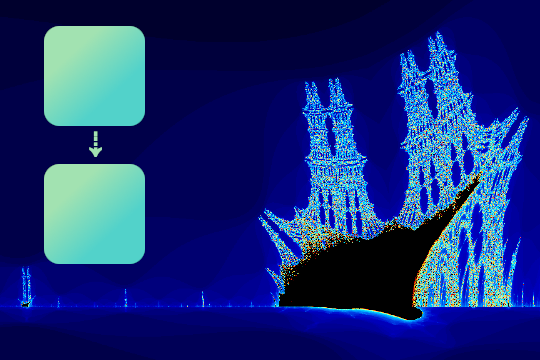
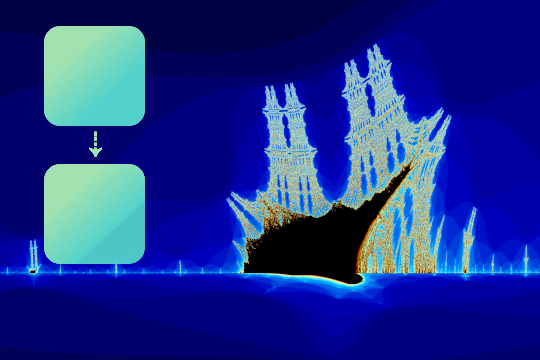
Replaced half-resolution with Resolution Scale to allow high-DPI support

diff --git a/src/main/java/me/fishydarwin/fractalexplorer/view/window/BoundTimeSettingsWindow.java b/src/main/java/me/fishydarwin/fractalexplorer/view/window/BoundTimeSettingsWindow.java
@@ -1,6 +1,7 @@
 package me.fishydarwin.fractalexplorer.view.window;
 
 import me.fishydarwin.fractalexplorer.Main;
+import me.fishydarwin.fractalexplorer.view.component.JImagePanel;
 
 import javax.swing.*;
 import java.awt.*;
@@ -28,7 +29,6 @@ public class BoundTimeSettingsWindow extends AppWindow {
     }
 
     private boolean useLowDetailChecked = false;
-    private boolean useCheckerboardChecked = false;
 
     @Override
     public void initComponents() {
@@ -45,14 +45,17 @@ public class BoundTimeSettingsWindow extends AppWindow {
         settingsPanelConstraints.gridy = 0;
         settingsPanelConstraints.gridheight = 1;
         settingsPanelConstraints.gridwidth = 3;
+        settingsPanelConstraints.ipady = 10;
         settingsPanel.add(redSliderLabel, settingsPanelConstraints);
         JSlider redSlider = new JSlider(0, 100,
                 (int) ((caller.getFractalRenderer().getPaletteR() - 1) * 100));
+        redSliderLabel.setHorizontalAlignment(SwingConstants.CENTER);
         redSlider.setPreferredSize(new Dimension(250, 16));
         settingsPanelConstraints.gridy = 1;
         settingsPanel.add(redSlider, settingsPanelConstraints);
 
         JLabel greenSliderLabel = new JLabel("Green Color Offset");
+        greenSliderLabel.setHorizontalAlignment(SwingConstants.CENTER);
         greenSliderLabel.setPreferredSize(new Dimension(250, 16));
         settingsPanelConstraints.gridy = 2;
         settingsPanel.add(greenSliderLabel, settingsPanelConstraints);
@@ -63,6 +66,7 @@ public class BoundTimeSettingsWindow extends AppWindow {
         settingsPanel.add(greenSlider, settingsPanelConstraints);
 
         JLabel blueSliderLabel = new JLabel("Blue Color Offset");
+        blueSliderLabel.setHorizontalAlignment(SwingConstants.CENTER);
         blueSliderLabel.setPreferredSize(new Dimension(250, 16));
         settingsPanelConstraints.gridy = 4;
         settingsPanel.add(blueSliderLabel, settingsPanelConstraints);
@@ -72,11 +76,17 @@ public class BoundTimeSettingsWindow extends AppWindow {
         blueSlider.setPreferredSize(new Dimension(250, 16));
         settingsPanel.add(blueSlider, settingsPanelConstraints);
 
-        useLowDetailChecked = caller.getFractalRenderer().getDetailScale() == 2;
-        JCheckBox useLowDetail = new JCheckBox("Use half-resolution (faster, less HQ)", useLowDetailChecked);
-        useLowDetail.addItemListener(e -> useLowDetailChecked = e.getStateChange() == ItemEvent.SELECTED);
+        JLabel renderScaleSliderLabel = new JLabel("Render Scale");
+        renderScaleSliderLabel.setHorizontalAlignment(SwingConstants.CENTER);
+        renderScaleSliderLabel.setPreferredSize(new Dimension(250, 16));
         settingsPanelConstraints.gridy = 6;
-        settingsPanel.add(useLowDetail, settingsPanelConstraints);
+        settingsPanel.add(renderScaleSliderLabel, settingsPanelConstraints);
+        JSlider renderScaleSlider = new JSlider(1, 8, (int) (JImagePanel.dpiScale * 2));
+        renderScaleSlider.setSnapToTicks(true);
+        renderScaleSlider.setPaintLabels(true);
+        renderScaleSlider.setPreferredSize(new Dimension(125, 16));
+        settingsPanelConstraints.gridy = 7;
+        settingsPanel.add(renderScaleSlider, settingsPanelConstraints);
 
         JButton okButton = new JButton("Ok");
         okButton.addActionListener(e -> {
@@ -84,7 +94,7 @@ public class BoundTimeSettingsWindow extends AppWindow {
             caller.getFractalRenderer().setPaletteG(greenSlider.getValue() / 100.0 + 1);
             caller.getFractalRenderer().setPaletteB(blueSlider.getValue() / 100.0 + 1);
 
-            caller.getFractalRenderer().setDetailScale(useLowDetailChecked ? 2 : 1);
+            JImagePanel.dpiScale = renderScaleSlider.getValue() / 2.0;
 
             caller.getFractalRenderer().render(true);
             dispatchEvent(new WindowEvent(this, WindowEvent.WINDOW_CLOSING));

diff --git a/src/main/java/me/fishydarwin/fractalexplorer/view/component/JBoundTimeFractalRenderer.java b/src/main/java/me/fishydarwin/fractalexplorer/view/component/JBoundTimeFractalRenderer.java
@@ -56,13 +56,17 @@ public class JBoundTimeFractalRenderer extends JPanel {
                     int halfWidth = imageWidth / 2;
                     int halfHeight = imageHeight / 2;
                     if (SwingUtilities.isLeftMouseButton(e)) {
-                        setOffsetX(offsetX + ((float) (e.getX() / detailScale) - halfWidth) / zoomScale);
-                        setOffsetY(offsetY + ((float) (e.getY() / detailScale) - halfHeight) / zoomScale);
+                        setOffsetX(offsetX +
+                                ((float) (e.getX() * JImagePanel.dpiScale / detailScale) - halfWidth) / zoomScale);
+                        setOffsetY(offsetY +
+                                ((float) (e.getY()  * JImagePanel.dpiScale / detailScale) - halfHeight) / zoomScale);
                         zoomScale *= 2;
                     }
                     else {
-                        setOffsetX(offsetX - ((float) (e.getX() / detailScale) - halfWidth) / zoomScale);
-                        setOffsetY(offsetY - ((float) (e.getY() / detailScale) - halfHeight) / zoomScale);
+                        setOffsetX(offsetX -
+                                ((float) (e.getX() * JImagePanel.dpiScale / detailScale) - halfWidth) / zoomScale);
+                        setOffsetY(offsetY -
+                                ((float) (e.getY() * JImagePanel.dpiScale / detailScale) - halfHeight) / zoomScale);
                         zoomScale /= 2;
                     }
                     reRender(false);
@@ -224,8 +228,8 @@ public class JBoundTimeFractalRenderer extends JPanel {
         Function<Pair<Complex, Complex>, Pair<Complex, Double>> fcxEval;
         fcxEval = FEXLCompiler.generateFunction(fexlInput);
 
-        int x = mouseX / detailScale - halfWidth;
-        int y = mouseY / detailScale - halfHeight;
+        int x = (int) (mouseX * JImagePanel.dpiScale / detailScale) - halfWidth;
+        int y = (int) (mouseY * JImagePanel.dpiScale / detailScale) - halfHeight;
 
         double xScaled = ((double) x + halfWidth / 2.0 + offsetX * zoomScale)
                 / imageWidth * imageScaleX;
@@ -258,7 +262,10 @@ public class JBoundTimeFractalRenderer extends JPanel {
         Color colorBack = new Color((255 - r) / 2, (255 - g) / 2, (255 - b) / 2);
 
         Point2D previousPoint;
-        Point2D nextPoint = new Point2D.Float((float) mouseX / detailScale, (float) mouseY / detailScale);
+        Point2D nextPoint = new Point2D.Float(
+                (float) (mouseX * JImagePanel.dpiScale / detailScale),
+                (float) (mouseY * JImagePanel.dpiScale / detailScale)
+        );
 
         int iterations = 0;
         while (iterations < maxIterations) {
@@ -315,7 +322,9 @@ public class JBoundTimeFractalRenderer extends JPanel {
         isRendering.getAndSet(true);
 
         imagePanel.setImage(
-                new BufferedImage(getWidth() / detailScale, getHeight() / detailScale,
+                new BufferedImage(
+                        (int) (getWidth() * JImagePanel.dpiScale / detailScale),
+                        (int) (getHeight() * JImagePanel.dpiScale / detailScale),
                         BufferedImage.TYPE_INT_RGB)
         );
         int imageWidth = imagePanel.getImage().getWidth();
@@ -379,7 +388,7 @@ public class JBoundTimeFractalRenderer extends JPanel {
 
                 // pre-fill stack
                 {
-                    final int initialRegionSize = 512;
+                    final int initialRegionSize = (int) (512 * JImagePanel.dpiScale);
                     for (int i = chunkXBegin; i < chunkXEnd; i += initialRegionSize) {
                         for (int j = 0; j < imageHeight; j += initialRegionSize) {
                             regionStack.add(Triple.of(i, j, initialRegionSize));

diff --git a/src/main/java/me/fishydarwin/fractalexplorer/view/component/JImagePanel.java b/src/main/java/me/fishydarwin/fractalexplorer/view/component/JImagePanel.java
@@ -4,12 +4,15 @@ import javax.swing.*;
 import java.awt.*;
 import java.awt.event.ComponentEvent;
 import java.awt.event.ComponentListener;
+import java.awt.geom.AffineTransform;
 import java.awt.image.BufferedImage;
 
 public class JImagePanel extends JPanel {
 
     private BufferedImage image;
     private BufferedImage scaledImage;
+
+    public static double dpiScale = 1;
 
     public JImagePanel(BufferedImage image) {
         super();
@@ -77,23 +80,35 @@ public class JImagePanel extends JPanel {
     }
 
     private void resizeImage(int newWidth, int newHeight) {
-        BufferedImage resized = new BufferedImage(newWidth, newHeight, image.getType());
-        Graphics2D g = resized.createGraphics();
-        g.setRenderingHint(RenderingHints.KEY_INTERPOLATION, RenderingHints.VALUE_INTERPOLATION_NEAREST_NEIGHBOR);
-        g.drawImage(image, 0, 0, newWidth, newHeight,
-                0, 0, image.getWidth(), image.getHeight(), null);
-        g.dispose();
+        BufferedImage resized = new BufferedImage(newWidth * 2, newHeight * 2, image.getType());
+        Graphics2D gfx = resized.createGraphics();
+
+        gfx.setRenderingHint(RenderingHints.KEY_INTERPOLATION, RenderingHints.VALUE_INTERPOLATION_NEAREST_NEIGHBOR);
+        gfx.drawImage(image, 0, 0, (int) (newWidth * dpiScale), (int) (newHeight * dpiScale),
+                0, 0, image.getWidth(), image.getHeight(),
+                null);
+        gfx.dispose();
         scaledImage = resized;
     }
 
     @Override
     protected void paintComponent(Graphics g) {
-        super.paintComponent(g);
-        g.drawImage(scaledImage,
-                (this.getWidth() - scaledImage.getWidth()) / 2,
-                (this.getHeight() - scaledImage.getHeight()) / 2,
+        final Graphics2D newG = (Graphics2D) g;
+        final AffineTransform t = newG.getTransform();
+        final double scaling = t.getScaleX();
+        t.setToScale(1, 1);
+        newG.setTransform(t);
+
+        double scaleFactor = dpiScale / scaling <= 1 ? dpiScale / scaling : 1;
+
+        super.paintComponent(newG);
+        newG.drawImage(scaledImage,
+                0, 0, (int) (this.getWidth() * scaling), (int) (this.getHeight() * scaling),
+                0, 0,
+                (int) (scaledImage.getWidth() * (scaleFactor)),
+                (int) (scaledImage.getHeight() * (scaleFactor)),
                 this);
-        g.dispose();
+        newG.dispose();
     }
 
 }

diff --git a/src/main/java/me/fishydarwin/fractalexplorer/model/os/MacOSAppSetup.java b/src/main/java/me/fishydarwin/fractalexplorer/model/os/MacOSAppSetup.java
@@ -1,5 +1,6 @@
 package me.fishydarwin.fractalexplorer.model.os;
 
+import me.fishydarwin.fractalexplorer.view.component.JImagePanel;
 import me.fishydarwin.fractalexplorer.view.window.AppWindow;
 import me.fishydarwin.fractalexplorer.view.window.MainWindow;
 
@@ -11,6 +12,7 @@ public class MacOSAppSetup extends OSAppSetup {
     public void setupSystemProperties() {
         System.setProperty("apple.awt.application.name", "Fractal Explorer");
         System.setProperty("apple.laf.useScreenMenuBar", "true");
+        JImagePanel.dpiScale = 2; //TODO: this is not the right way to calculate this
     }
 
     @Override
